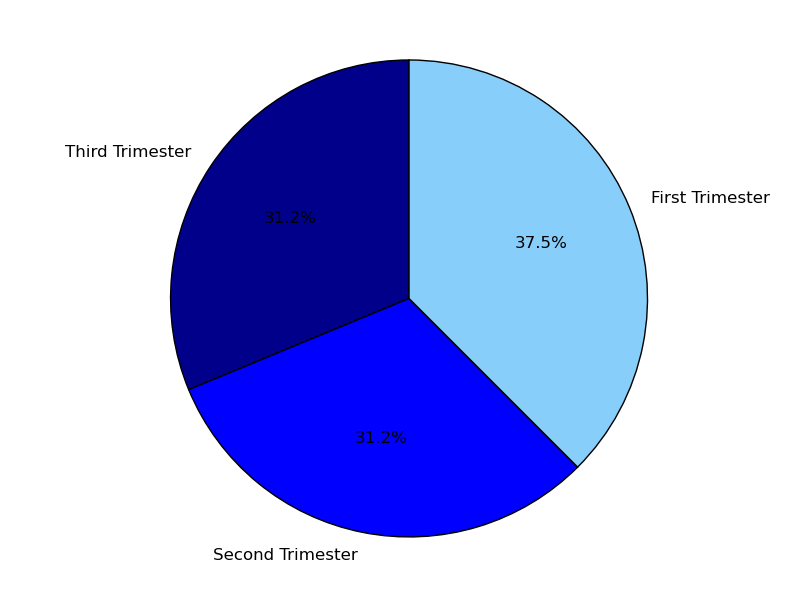
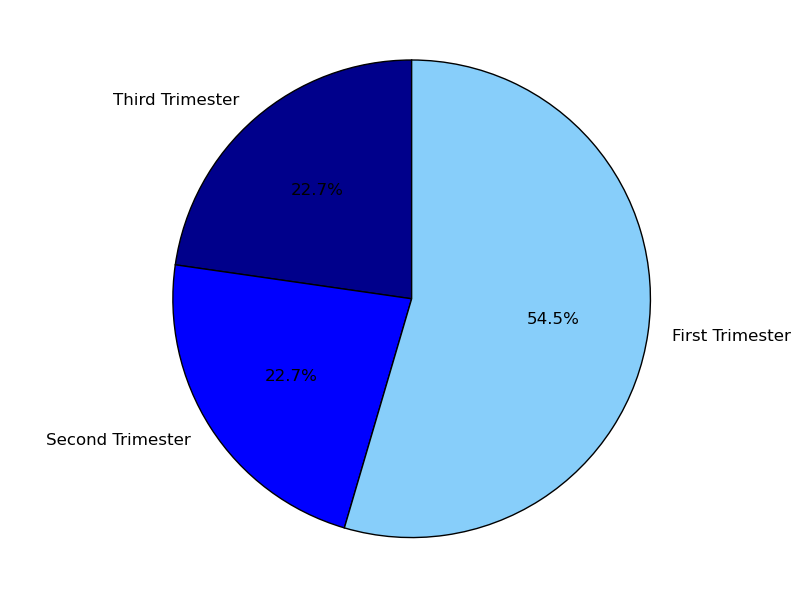
Added test cases

diff --git a/Uttar/betterbirth/views.py b/Uttar/betterbirth/views.py
@@ -20,24 +20,37 @@ last_name_exp = '''[A-Z,a-z]+\s([A-Z, a-z]+)'''
 
 mother1 = Mother(phone_num=1123456789, mother_condition='Cramps', age=29, postal_code='07016', first_name='Jane',last_name='Smith', give_aid=True, receive_aid=True, home_city='New York');
 mother1.save();
+baby1 = Baby(mother=mother1, baby_gender='Male', conception_datetime=datetime.datetime.now(), birth_of_baby=False)
+baby1.save();
 mother2 = Mother(phone_num=19745325461, mother_condition='Stomach Ache', age=18, postal_code='07016', first_name='Emily',last_name='Jones', give_aid=True, receive_aid=True, home_city='New York');
 mother2.save();
+baby2 = Baby(mother=mother2, baby_gender='Male', conception_datetime=datetime.datetime.now(), birth_of_baby=False)
+baby2.save();
 mother3 = Mother(phone_num=12435564534, mother_condition='Healthy', age=32, postal_code='12345', first_name='Robin',last_name='Brown', give_aid=True, receive_aid=True, home_city='New York');
 mother3.save();
+baby3 = Baby(mother=mother3, baby_gender='Male', conception_datetime=datetime.datetime.now(), birth_of_baby=False)
+baby3.save();
 mother4 = Mother(phone_num=19562451654, mother_condition='Healthy', age=30, postal_code='84653', first_name='Karen',last_name='Cummings', give_aid=True, receive_aid=True, home_city='New York');
 mother4.save();
+baby4 = Baby(mother=mother4, baby_gender='Male', conception_datetime=datetime.datetime.now(), birth_of_baby=False)
+baby4.save();
 mother5 = Mother(phone_num=12645765487, mother_condition='Healthy', age=25, postal_code='07016', first_name='Emily',last_name='Goldstein', give_aid=True, receive_aid=True, home_city='New York');
 mother5.save();
+baby5 = Baby(mother=mother5, baby_gender='Male', conception_datetime=datetime.datetime.now(), birth_of_baby=False)
+baby5.save();
 mother6 = Mother(phone_num=1563456765, mother_condition='Numb Toes', age=25, postal_code='07016', first_name='Hannah',last_name='Chang', give_aid=True, receive_aid=True, home_city='New York');
 mother6.save();
+baby6 = Baby(mother=mother6, baby_gender='Male', conception_datetime=datetime.datetime.now(), birth_of_baby=False)
+baby6.save();
 
 def makecsv(request):
+	plt.clf()
+	os.remove('/home/alex/Desktop/AriadneHack/Uttar/betterbirth/piechart.png')
 	babies = Baby.objects.all()
 	now = time.time()
 	first = 5
 	second = 5
 	third = 5
-	print now
 	for item in babies:
 		conception = int(item.conception_datetime.strftime("%s"))		
 		diff = now - conception
@@ -49,7 +62,6 @@ def makecsv(request):
 			third += 1
 
 	trimester_list = '"1","' + str(first) + '"\n"2","' + str(second) + '"\n"3","' + str(third) + '"\n'
-	print trimester_list
 	f = open('/home/alex/Desktop/AriadneHack/Uttar/betterbirth/data.csv', 'w')
 	f.write(trimester_list);
 	f.close()
@@ -59,11 +71,9 @@ def makecsv(request):
 	rows = [];
 	for line in reader:
 		rows.append(line[1])
-
 # Casting string list to double list
 	rows = map(float, rows)
 	total = sum(rows)
-	print total
 		
 	labels = 'Third Trimester', 'Second Trimester', 'First Trimester'
 	sizes = [rows[2]/total*100, rows[1]/total*100, rows[0]/total*100]
